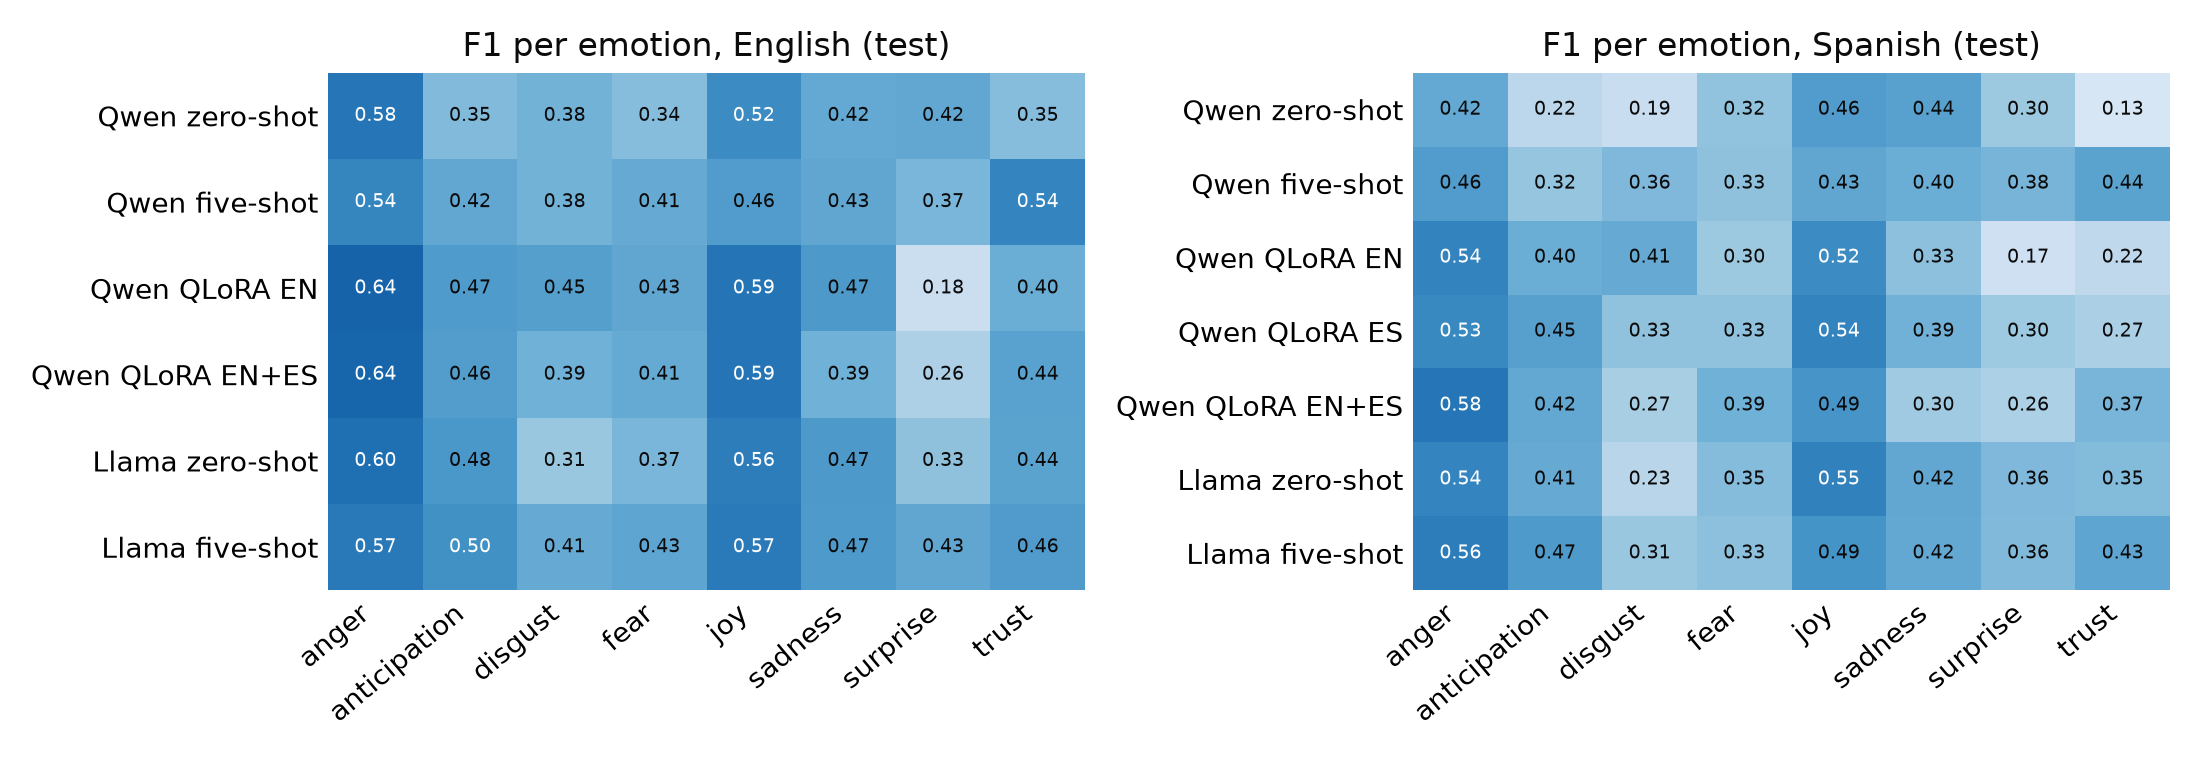
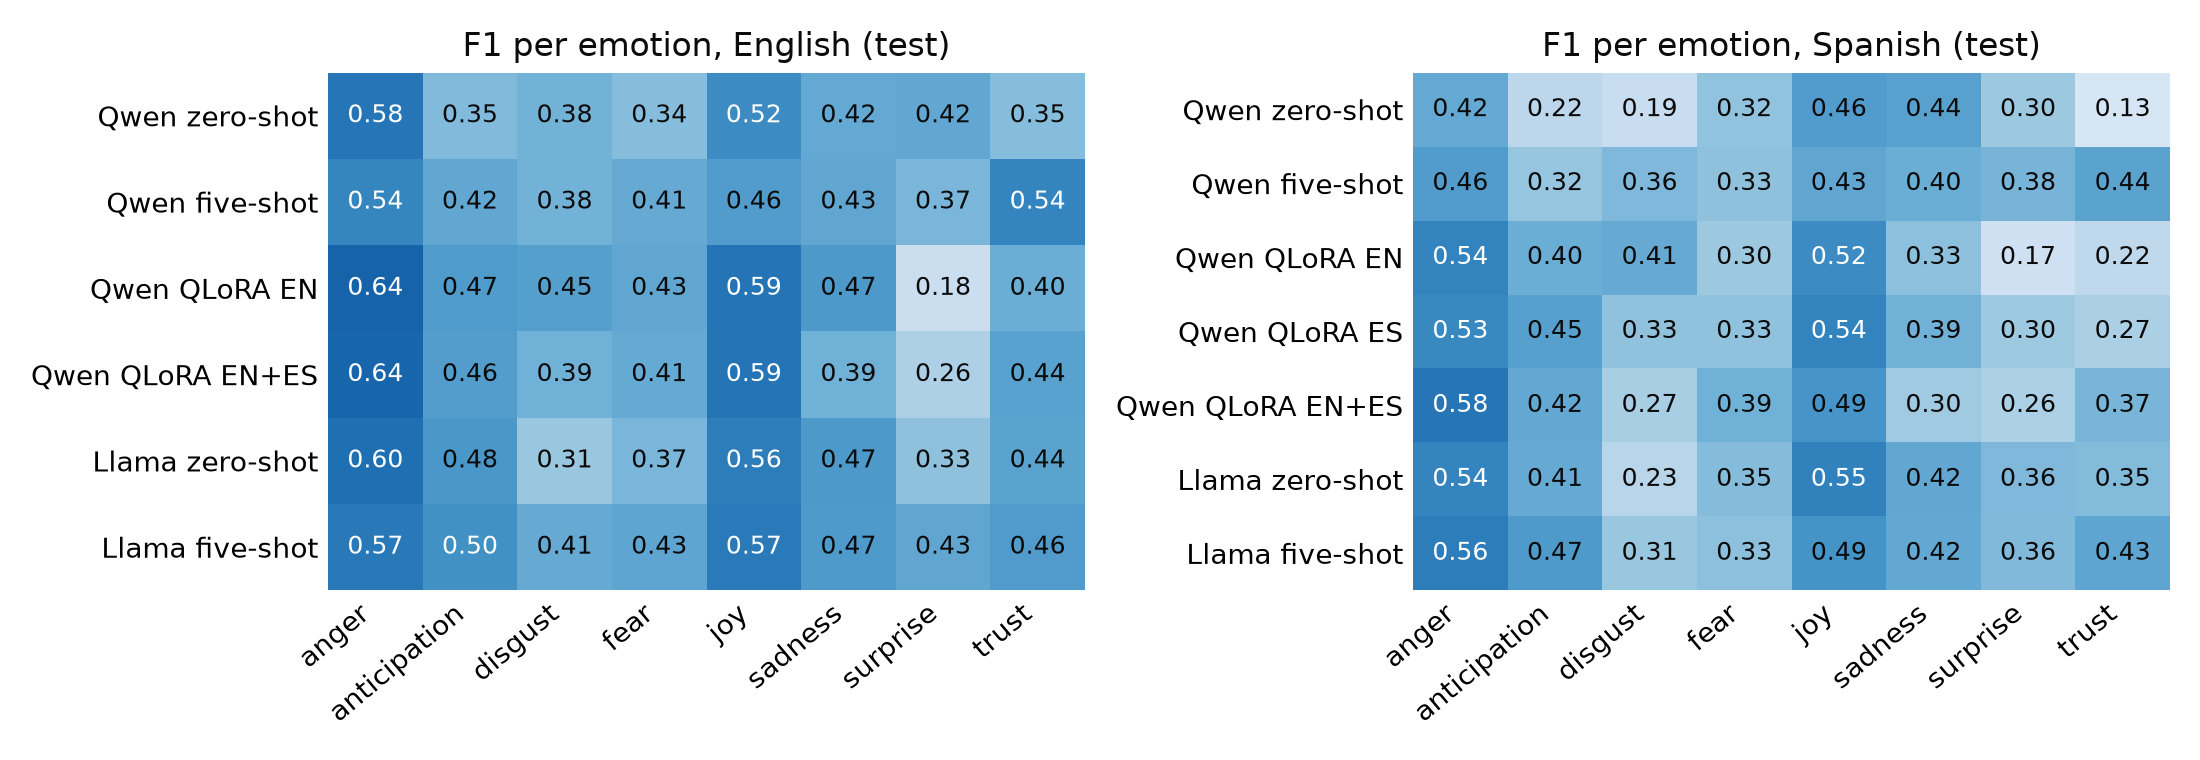
Update analysis tables to include precision, recall, and F1 scores per emotion; adjust formatting for clarity

diff --git a/analysis/analyze.py b/analysis/analyze.py
@@ -234,6 +234,7 @@ def label_count_table(split):
 
 
 def per_label_table(split, lang):
+    """Precision / recall / F1 per emotion, one cell per emotion."""
     header = ["System"] + LABELS
     rows = []
     support = None
@@ -242,7 +243,11 @@ def per_label_table(split, lang):
         if lang not in metrics:
             continue
         per_label = metrics[lang]["per_label"]
-        rows.append([name] + [f"{per_label[label]['f1']:.2f}" for label in LABELS])
+        cells = []
+        for label in LABELS:
+            scores = per_label[label]
+            cells.append(f"{scores['precision']:.2f} / {scores['recall']:.2f} / {scores['f1']:.2f}")
+        rows.append([name] + cells)
         support = [str(per_label[label]["support"]) for label in LABELS]
     rows.append(["*support (gold lines)*"] + support)
     return markdown_table(header, rows)
@@ -394,7 +399,7 @@ def figure_per_label(split):
             for col in range(table.shape[1]):
                 text_color = "white" if table[row, col] > 0.5 else INK
                 ax.text(
-                    col, row, f"{table[row, col]:.2f}", ha="center", va="center", fontsize=7, color=text_color
+                    col, row, f"{table[row, col]:.2f}", ha="center", va="center", fontsize=9, color=text_color
                 )
         ax.set_xticks(range(len(LABELS)), LABELS, rotation=40, ha="right")
         ax.set_yticks(range(len(names)), names)
@@ -488,8 +493,8 @@ def main():
         ("4. Paired comparisons on test (A − B)", comparisons),
         ("5. Language gap on test (same lines in English and Spanish)", language_gap_table(counts, samples)),
         ("6. Number of predicted labels, precision and recall (test)", label_count_table("test")),
-        ("7a. F1 per emotion, English (test)", per_label_table("test", "en")),
-        ("7b. F1 per emotion, Spanish (test)", per_label_table("test", "es")),
+        ("7a. Precision / recall / F1 per emotion, English (test)", per_label_table("test", "en")),
+        ("7b. Precision / recall / F1 per emotion, Spanish (test)", per_label_table("test", "es")),
         ("8. Prompt sensitivity, micro-F1 on dev", prompt_sensitivity_table()),
         ("9a. Malformed outputs (test)", malformed_table("test")),
         ("9b. Malformed outputs (dev)", malformed_table("dev")),

diff --git a/results/analysis/tables.md b/results/analysis/tables.md
@@ -108,29 +108,29 @@ Made by analysis/analyze.py from the files in results/.
 | Llama five-shot | en | 1.97 | 1.42 | 0.422 | 0.585 |
 | Llama five-shot | es | 1.98 | 1.42 | 0.375 | 0.523 |
 
-## 7a. F1 per emotion, English (test)
+## 7a. Precision / recall / F1 per emotion, English (test)
 
 | System | anger | anticipation | disgust | fear | joy | sadness | surprise | trust |
 |---|---|---|---|---|---|---|---|---|
-| Qwen zero-shot | 0.58 | 0.35 | 0.38 | 0.34 | 0.52 | 0.42 | 0.42 | 0.35 |
-| Qwen five-shot | 0.54 | 0.42 | 0.38 | 0.41 | 0.46 | 0.43 | 0.37 | 0.54 |
-| Qwen QLoRA EN | 0.64 | 0.47 | 0.45 | 0.43 | 0.59 | 0.47 | 0.18 | 0.40 |
-| Qwen QLoRA EN+ES | 0.64 | 0.46 | 0.39 | 0.41 | 0.59 | 0.39 | 0.26 | 0.44 |
-| Llama zero-shot | 0.60 | 0.48 | 0.31 | 0.37 | 0.56 | 0.47 | 0.33 | 0.44 |
-| Llama five-shot | 0.57 | 0.50 | 0.41 | 0.43 | 0.57 | 0.47 | 0.43 | 0.46 |
+| Qwen zero-shot | 0.69 / 0.51 / 0.58 | 0.54 / 0.26 / 0.35 | 0.44 / 0.34 / 0.38 | 0.33 / 0.36 / 0.34 | 0.62 / 0.44 / 0.52 | 0.34 / 0.53 / 0.42 | 0.38 / 0.48 / 0.42 | 0.50 / 0.26 / 0.35 |
+| Qwen five-shot | 0.69 / 0.44 / 0.54 | 0.53 / 0.35 / 0.42 | 0.35 / 0.42 / 0.38 | 0.34 / 0.52 / 0.41 | 0.53 / 0.41 / 0.46 | 0.32 / 0.65 / 0.43 | 0.29 / 0.52 / 0.37 | 0.59 / 0.49 / 0.54 |
+| Qwen QLoRA EN | 0.54 / 0.78 / 0.64 | 0.37 / 0.63 / 0.47 | 0.45 / 0.45 / 0.45 | 0.40 / 0.45 / 0.43 | 0.55 / 0.63 / 0.59 | 0.51 / 0.44 / 0.47 | 0.32 / 0.12 / 0.18 | 0.45 / 0.36 / 0.40 |
+| Qwen QLoRA EN+ES | 0.55 / 0.76 / 0.64 | 0.34 / 0.69 / 0.46 | 0.43 / 0.35 / 0.39 | 0.40 / 0.42 / 0.41 | 0.49 / 0.73 / 0.59 | 0.56 / 0.30 / 0.39 | 0.28 / 0.25 / 0.26 | 0.43 / 0.45 / 0.44 |
+| Llama zero-shot | 0.50 / 0.76 / 0.60 | 0.42 / 0.56 / 0.48 | 0.35 / 0.27 / 0.31 | 0.36 / 0.38 / 0.37 | 0.52 / 0.61 / 0.56 | 0.37 / 0.66 / 0.47 | 0.24 / 0.51 / 0.33 | 0.39 / 0.51 / 0.44 |
+| Llama five-shot | 0.55 / 0.60 / 0.57 | 0.38 / 0.73 / 0.50 | 0.46 / 0.37 / 0.41 | 0.37 / 0.52 / 0.43 | 0.56 / 0.58 / 0.57 | 0.36 / 0.68 / 0.47 | 0.37 / 0.51 / 0.43 | 0.38 / 0.59 / 0.46 |
 | *support (gold lines)* | 134 | 110 | 62 | 73 | 93 | 77 | 81 | 91 |
 
-## 7b. F1 per emotion, Spanish (test)
+## 7b. Precision / recall / F1 per emotion, Spanish (test)
 
 | System | anger | anticipation | disgust | fear | joy | sadness | surprise | trust |
 |---|---|---|---|---|---|---|---|---|
-| Qwen zero-shot | 0.42 | 0.22 | 0.19 | 0.32 | 0.46 | 0.44 | 0.30 | 0.13 |
-| Qwen five-shot | 0.46 | 0.32 | 0.36 | 0.33 | 0.43 | 0.40 | 0.38 | 0.44 |
-| Qwen QLoRA EN | 0.54 | 0.40 | 0.41 | 0.30 | 0.52 | 0.33 | 0.17 | 0.22 |
-| Qwen QLoRA ES | 0.53 | 0.45 | 0.33 | 0.33 | 0.54 | 0.39 | 0.30 | 0.27 |
-| Qwen QLoRA EN+ES | 0.58 | 0.42 | 0.27 | 0.39 | 0.49 | 0.30 | 0.26 | 0.37 |
-| Llama zero-shot | 0.54 | 0.41 | 0.23 | 0.35 | 0.55 | 0.42 | 0.36 | 0.35 |
-| Llama five-shot | 0.56 | 0.47 | 0.31 | 0.33 | 0.49 | 0.42 | 0.36 | 0.43 |
+| Qwen zero-shot | 0.62 / 0.31 / 0.42 | 0.40 / 0.15 / 0.22 | 0.33 / 0.13 / 0.19 | 0.39 / 0.27 / 0.32 | 0.51 / 0.42 / 0.46 | 0.36 / 0.57 / 0.44 | 0.26 / 0.37 / 0.30 | 0.37 / 0.08 / 0.13 |
+| Qwen five-shot | 0.65 / 0.36 / 0.46 | 0.42 / 0.25 / 0.32 | 0.35 / 0.37 / 0.36 | 0.28 / 0.41 / 0.33 | 0.53 / 0.35 / 0.43 | 0.30 / 0.58 / 0.40 | 0.29 / 0.54 / 0.38 | 0.44 / 0.44 / 0.44 |
+| Qwen QLoRA EN | 0.45 / 0.69 / 0.54 | 0.32 / 0.54 / 0.40 | 0.53 / 0.34 / 0.41 | 0.29 / 0.32 / 0.30 | 0.45 / 0.61 / 0.52 | 0.36 / 0.31 / 0.33 | 0.32 / 0.11 / 0.17 | 0.32 / 0.16 / 0.22 |
+| Qwen QLoRA ES | 0.44 / 0.65 / 0.53 | 0.37 / 0.56 / 0.45 | 0.40 / 0.27 / 0.33 | 0.29 / 0.38 / 0.33 | 0.49 / 0.60 / 0.54 | 0.36 / 0.42 / 0.39 | 0.52 / 0.21 / 0.30 | 0.32 / 0.23 / 0.27 |
+| Qwen QLoRA EN+ES | 0.48 / 0.73 / 0.58 | 0.32 / 0.63 / 0.42 | 0.35 / 0.23 / 0.27 | 0.37 / 0.41 / 0.39 | 0.43 / 0.56 / 0.49 | 0.52 / 0.21 / 0.30 | 0.30 / 0.23 / 0.26 | 0.41 / 0.34 / 0.37 |
+| Llama zero-shot | 0.46 / 0.65 / 0.54 | 0.38 / 0.45 / 0.41 | 0.27 / 0.21 / 0.23 | 0.32 / 0.38 / 0.35 | 0.50 / 0.60 / 0.55 | 0.30 / 0.69 / 0.42 | 0.27 / 0.54 / 0.36 | 0.32 / 0.38 / 0.35 |
+| Llama five-shot | 0.57 / 0.55 / 0.56 | 0.35 / 0.72 / 0.47 | 0.35 / 0.27 / 0.31 | 0.27 / 0.42 / 0.33 | 0.50 / 0.48 / 0.49 | 0.32 / 0.62 / 0.42 | 0.33 / 0.40 / 0.36 | 0.35 / 0.56 / 0.43 |
 | *support (gold lines)* | 134 | 110 | 62 | 73 | 93 | 77 | 81 | 91 |
 
 ## 8. Prompt sensitivity, micro-F1 on dev
